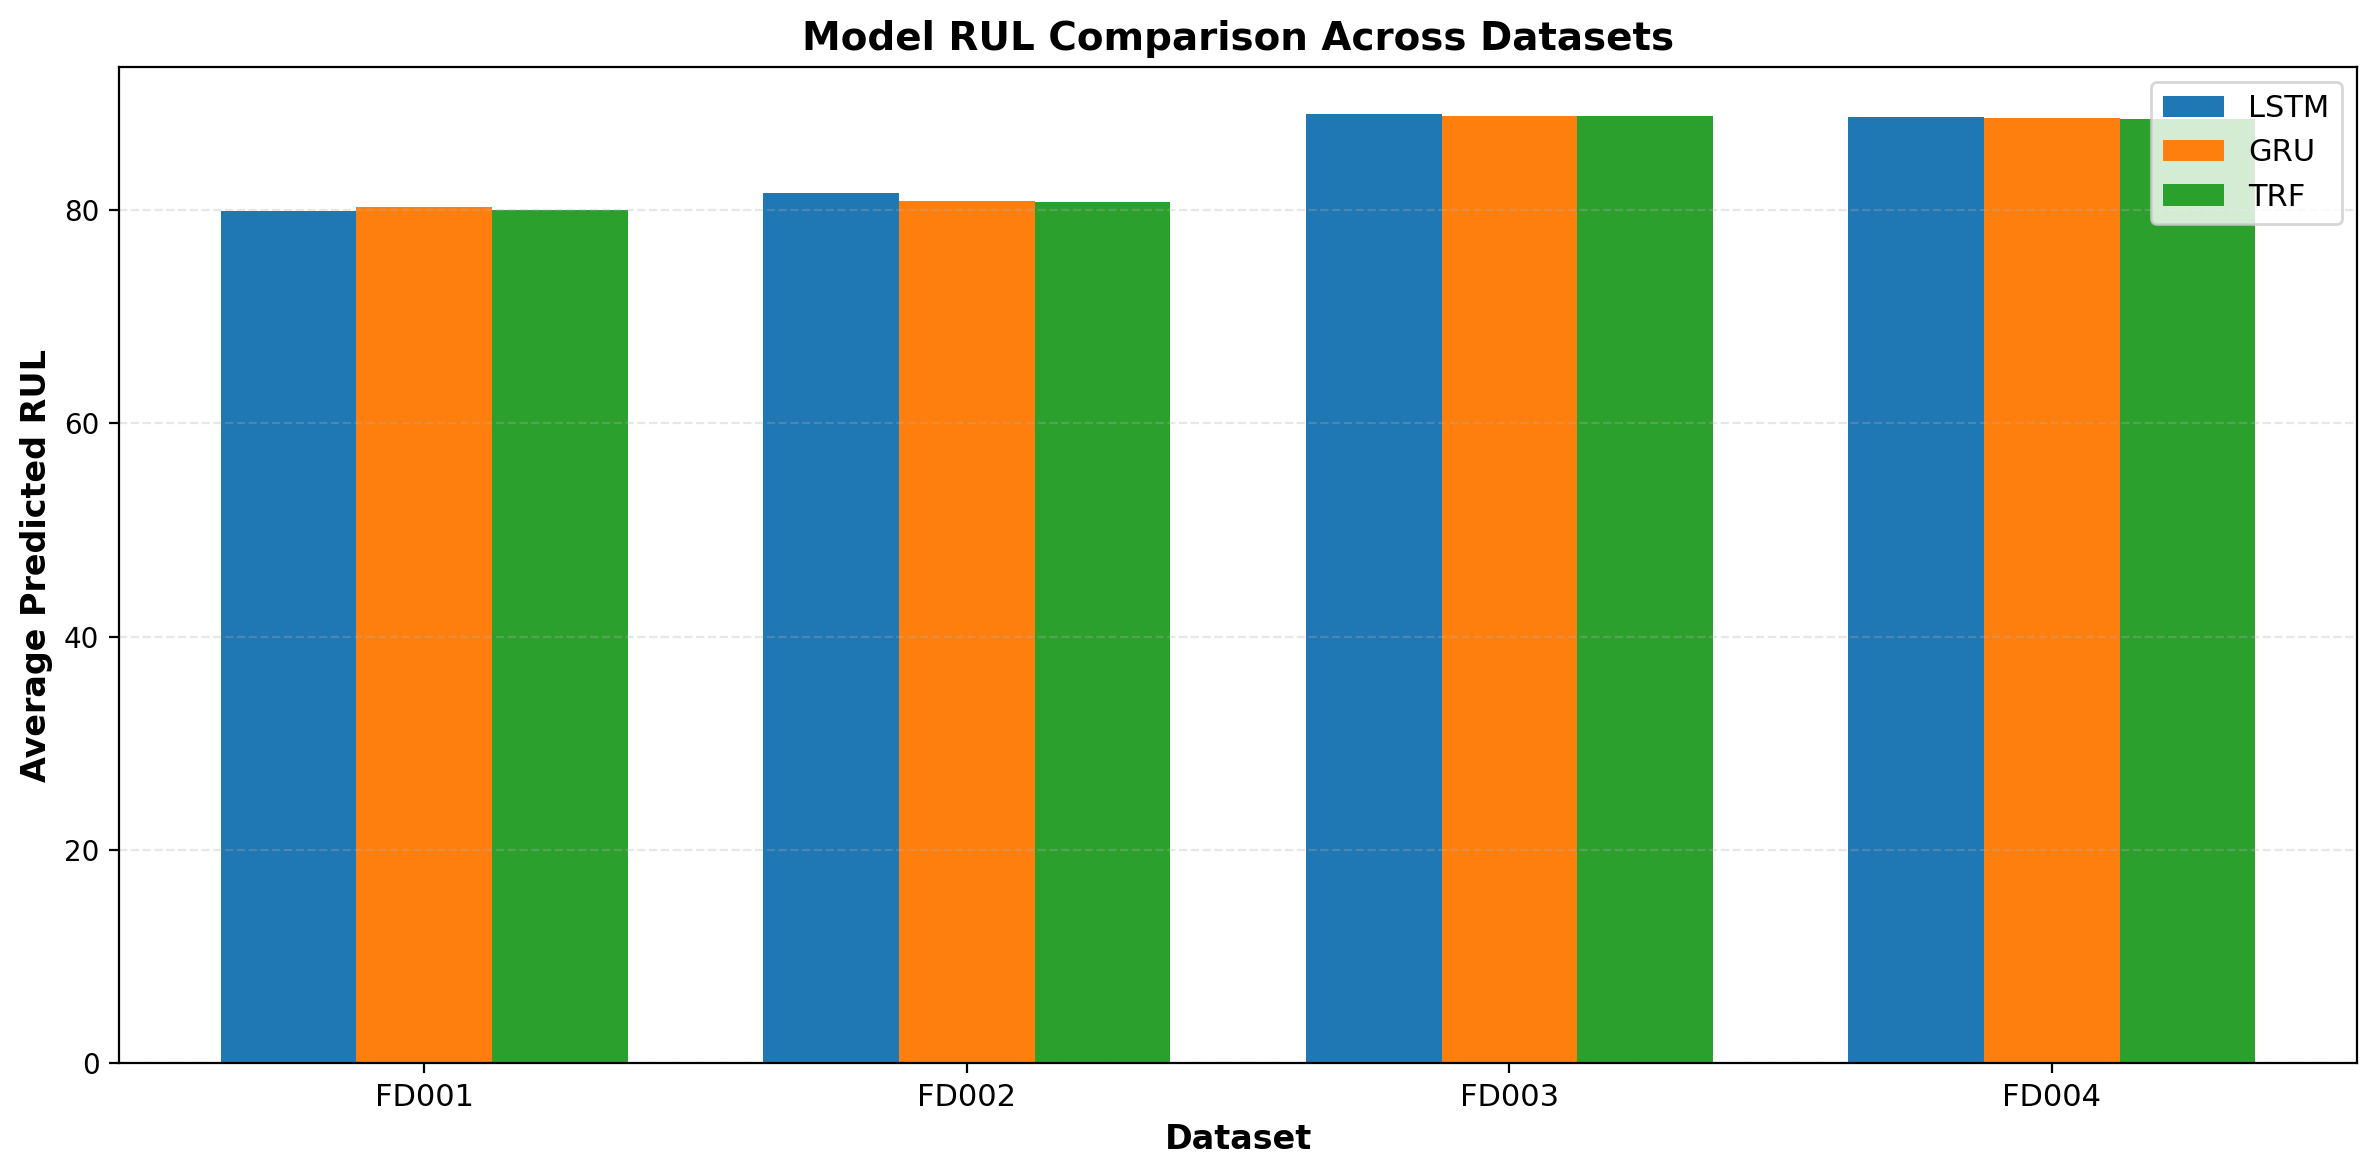
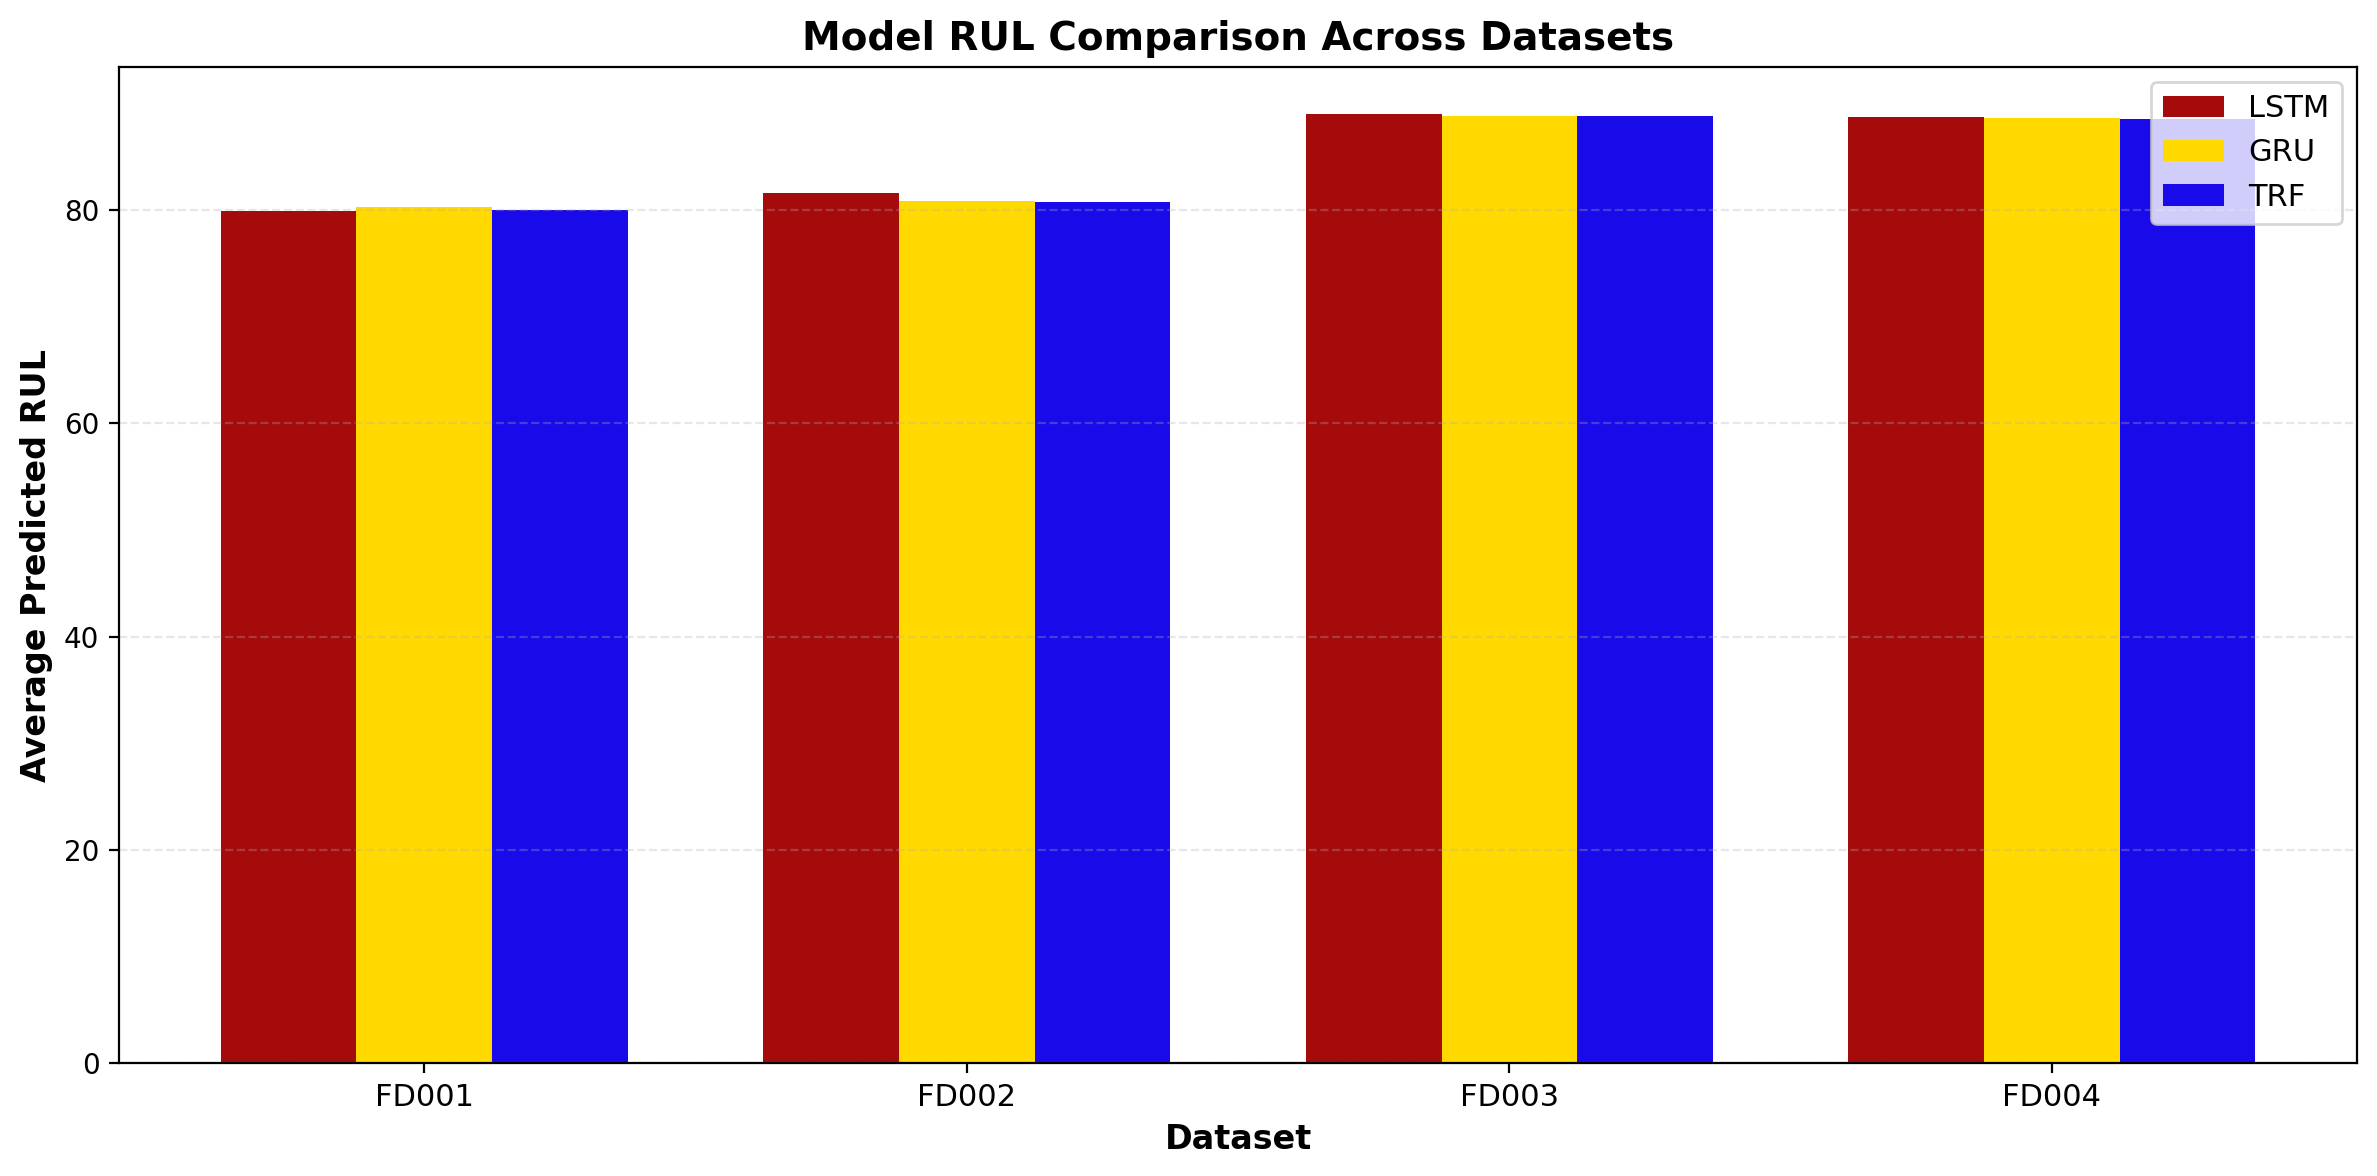
Changed Graph Color

diff --git a/main.py b/main.py
@@ -5,7 +5,7 @@ import matplotlib.pyplot as plt
 from sklearn.preprocessing import MinMaxScaler
 from sklearn.model_selection import train_test_split
 from sklearn.metrics import mean_absolute_error, mean_squared_error, r2_score
-from sklearn.cluster import KMeans   ### CHANGED: for regime detection [web:24][web:36]
+from sklearn.cluster import KMeans   ### CHANGED: for regime detection
 import tensorflow as tf
 from tensorflow.keras.models import Sequential, load_model, Model
 from tensorflow.keras.layers import (Input, Dense, Dropout, LSTM, GRU,
@@ -19,20 +19,20 @@ from tensorflow.keras.regularizers import l2
 
 # =================== CONFIG ===================
 
-SEQ_LENGTH = 30          ### CHANGED: longer window for more context [web:24]
+SEQ_LENGTH = 30          ### CHANGED: longer window for more context
 BATCH_SIZE = 32
 EPOCHS = 40
 RANDOM_STATE = 42
 DATASETS = ["FD001", "FD002", "FD003", "FD004"]
 
 # advanced preprocessing config
-MAX_RUL = 125            ### CHANGED: RUL capping [web:24]
+MAX_RUL = 125            ### CHANGED: RUL capping
 WINDOW_STEP = 1          ### CHANGED: step between windows
 ### CHANGED: fix sensor list to match 21-sensor C-MAPSS format
 IMPORTANT_SENSORS = [2, 3, 4, 7, 8, 9, 11, 12, 13, 14, 15, 17, 20, 21]
-SELECTED_SENSOR_COLS = [f"sensor_{i}" for i in IMPORTANT_SENSORS]         ### CHANGED
+SELECTED_SENSOR_COLS = [f"sensor_{i}" for i in IMPORTANT_SENSORS]  ### CHANGED
 
-USE_REGIME_SCALING = True    ### CHANGED: regime-wise normalization for FD002/FD004 
+USE_REGIME_SCALING = True    ### CHANGED: regime-wise normalization for FD002/FD004
 USE_SMOOTHING = False        ### CHANGED: optional moving-average smoothing
 SMOOTHING_WINDOW = 3         ### CHANGED
 
@@ -44,7 +44,7 @@ os.makedirs(RESULTS_DIR, exist_ok=True)
 
 # =================== ADVANCED PREPROCESSING ===================
 
-### CHANGED: new loader with RUL capping [web:24]
+### CHANGED: new loader with RUL capping
 def load_cmapss_train_adv(file_path, max_rul=MAX_RUL):
     cols = ['engine_id', 'cycle', 'op_setting_1', 'op_setting_2', 'op_setting_3'] + \
            [f'sensor_{i}' for i in range(1, 22)]
@@ -64,7 +64,7 @@ def load_cmapss_train_adv(file_path, max_rul=MAX_RUL):
     return df
 
 
-### CHANGED: optional smoothing [web:32][web:35]
+### CHANGED: optional smoothing
 def smooth_sensors(df, sensor_cols, window=SMOOTHING_WINDOW):
     for col in sensor_cols:
         df[col] = df.groupby('engine_id')[col].transform(
@@ -73,7 +73,7 @@ def smooth_sensors(df, sensor_cols, window=SMOOTHING_WINDOW):
     return df
 
 
-### CHANGED: KMeans regime detection [web:24][web:36]
+### CHANGED: KMeans regime detection
 def add_regime_id_kmeans(df, n_clusters=6, random_state=RANDOM_STATE):
     ops = df[['op_setting_1', 'op_setting_2', 'op_setting_3']].values
     km = KMeans(n_clusters=n_clusters, random_state=random_state)
@@ -81,7 +81,7 @@ def add_regime_id_kmeans(df, n_clusters=6, random_state=RANDOM_STATE):
     return df
 
 
-### CHANGED: basic sequences (single scaler) – for FD001 & FD003 [web:24]
+### CHANGED: basic sequences (single scaler) – for FD001 & FD003
 def make_sequences_basic(df,
                          seq_length=SEQ_LENGTH,
                          step=WINDOW_STEP,
@@ -107,7 +107,7 @@ def make_sequences_basic(df,
     return np.array(X, dtype='float32'), np.array(y, dtype='float32'), scaler
 
 
-### CHANGED: regime-aware sequences – for FD002 & FD004 [web:24][web:36]
+### CHANGED: regime-aware sequences – for FD002 & FD004
 def make_sequences_regime(df,
                           seq_length=SEQ_LENGTH,
                           step=WINDOW_STEP,
@@ -137,7 +137,7 @@ def make_sequences_regime(df,
     return np.array(X, dtype='float32'), np.array(y, dtype='float32'), scalers
 
 
-# =================== UTILS & MODELS (UNCHANGED) ===================
+# =================== UTILS & MODELS (UNCHANGED COLORS) ===================
 
 def save_plot(y_true, preds_dict, out_path, max_points=200):
     plt.figure(figsize=(10, 5))
@@ -199,22 +199,19 @@ def plot_training_curves_from_csv(csv_file, model_name, dataset_name, out_dir):
     plt.close()
     print(f"📊 Saved training curve from CSV for {model_name} → {out_path}")
 
-### CHANGED: improved RUL comparison plot with per-model colors and proper naming
+
+# =================== COLOR-CHANGED PLOTS ONLY ===================
+
 def plot_model_rul_comparison(all_preds_dict, out_path):
     """
-    all_preds_dict: dict like {
-        'FD001': {'LSTM': y_pred_array, 'GRU': y_pred_array, 'TRF': y_pred_array},
-        'FD002': {...},
-        ...
-    }
     Plots average predicted RUL for each model per dataset with color differentiation.
     """
     datasets = sorted(all_preds_dict.keys())
     model_names = ['LSTM', 'GRU', 'TRF']
-    
+
     # Prepare data
     data_for_plot = {model: [] for model in model_names}
-    
+
     for ds in datasets:
         for model in model_names:
             if model in all_preds_dict[ds]:
@@ -223,16 +220,19 @@ def plot_model_rul_comparison(all_preds_dict, out_path):
                 data_for_plot[model].append(avg_rul)
             else:
                 data_for_plot[model].append(0)  # fallback if model missing
-    
-    # Create bar plot with colors per model
+
     x = np.arange(len(datasets))
     width = 0.25
-    colors = ['#1f77b4', '#ff7f0e', '#2ca02c']  # blue, orange, green
-    
+    colors = ["#a50b0b", "#ffd900", "#190aea"]  # Red, Yellow, Blue
+
     plt.figure(figsize=(12, 6))
     for i, model in enumerate(model_names):
-        plt.bar(x + i * width, data_for_plot[model], width, label=model, color=colors[i])
-    
+        plt.bar(x + i * width,
+                data_for_plot[model],
+                width,
+                label=model,
+                color=colors[i])
+
     plt.xlabel('Dataset', fontsize=12, fontweight='bold')
     plt.ylabel('Average Predicted RUL', fontsize=12, fontweight='bold')
     plt.title('Model RUL Comparison Across Datasets', fontsize=14, fontweight='bold')
@@ -245,6 +245,53 @@ def plot_model_rul_comparison(all_preds_dict, out_path):
     print(f"📊 Saved Model RUL Comparison → {out_path}")
 
 
+def plot_summary(results_df, out_path):
+    datasets = results_df['Dataset'].unique()
+    models = results_df['Model'].unique()
+    width = 0.2
+    x = np.arange(len(datasets))
+
+    colors = ["#a50b0b", "#ffd900", "#190aea"]  # Red, Yellow, Blue
+
+    plt.figure(figsize=(12, 5))
+
+    # MAE
+    plt.subplot(1, 2, 1)
+    for i, model in enumerate(models):
+        vals = results_df[results_df['Model'] == model]['MAE']
+        plt.bar(x + i * width,
+                vals,
+                width=width,
+                label=model,
+                color=colors[i % len(colors)])
+    plt.xticks(x + width * (len(models) - 1) / 2, datasets)
+    plt.xlabel('Dataset')
+    plt.ylabel('MAE')
+    plt.title('MAE Comparison')
+    plt.legend()
+
+    # RMSE
+    plt.subplot(1, 2, 2)
+    for i, model in enumerate(models):
+        vals = results_df[results_df['Model'] == model]['RMSE']
+        plt.bar(x + i * width,
+                vals,
+                width=width,
+                label=model,
+                color=colors[i % len(colors)])
+        plt.xticks(x + width * (len(models) - 1) / 2, datasets)
+    plt.xlabel('Dataset')
+    plt.ylabel('RMSE')
+    plt.title('RMSE Comparison')
+    plt.legend()
+
+    plt.tight_layout()
+    plt.savefig(out_path, dpi=200)
+    plt.close()
+    print(f"📊 Saved final summary plot → {out_path}")
+
+
+# =================== MODELS ===================
 
 class LiveAccuracyTrackerCSV(Callback):
     """Prints live metrics and saves per-epoch metrics to CSV."""
@@ -364,40 +411,6 @@ def build_transformer(input_shape, d_model=64, num_heads=4, ff_dim=256):
     return model
 
 
-def plot_summary(results_df, out_path):
-    datasets = results_df['Dataset'].unique()
-    models = results_df['Model'].unique()
-    width = 0.2
-    x = np.arange(len(datasets))
-
-    plt.figure(figsize=(12, 5))
-
-    plt.subplot(1, 2, 1)
-    for i, model in enumerate(models):
-        vals = results_df[results_df['Model'] == model]['MAE']
-        plt.bar(x + i * width, vals, width=width, label=model)
-    plt.xticks(x + width * (len(models) - 1) / 2, datasets)
-    plt.xlabel('Dataset')
-    plt.ylabel('MAE')
-    plt.title('MAE Comparison')
-    plt.legend()
-
-    plt.subplot(1, 2, 2)
-    for i, model in enumerate(models):
-        vals = results_df[results_df['Model'] == model]['RMSE']
-        plt.bar(x + i * width, vals, width=width, label=model)
-        plt.xticks(x + width * (len(models) - 1) / 2, datasets)
-    plt.xlabel('Dataset')
-    plt.ylabel('RMSE')
-    plt.title('RMSE Comparison')
-    plt.legend()
-
-    plt.tight_layout()
-    plt.savefig(out_path, dpi=200)
-    plt.close()
-    print(f"📊 Saved final summary plot → {out_path}")
-
-
 # =================== MAIN TRAINING LOOP ===================
 
 all_results = []
@@ -411,7 +424,6 @@ for ds in DATASETS:
         print(f"❌ {file_path} not found. Skipping.")
         continue
 
-    ### CHANGED: advanced loader + branching for regimes
     df = load_cmapss_train_adv(file_path, max_rul=MAX_RUL)
 
     sensor_cols = SELECTED_SENSOR_COLS   # 14 selected sensors
